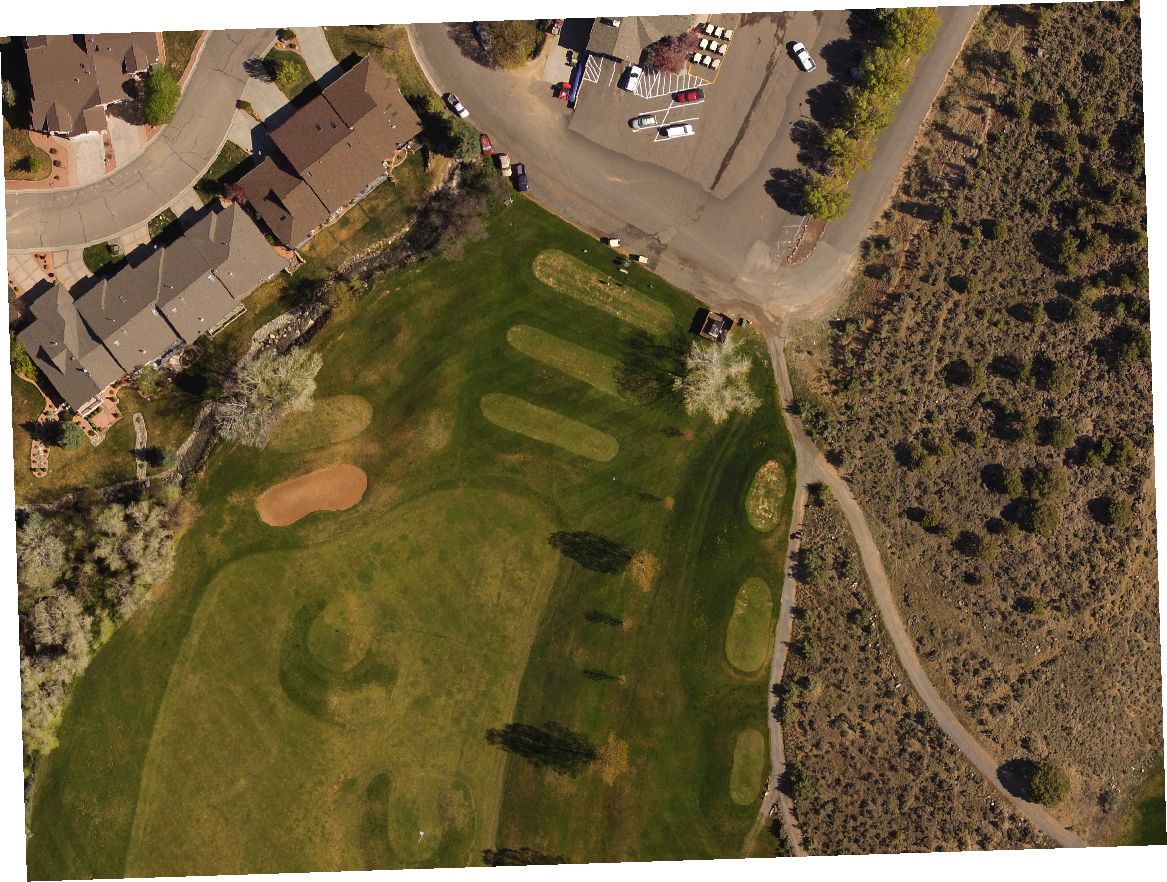
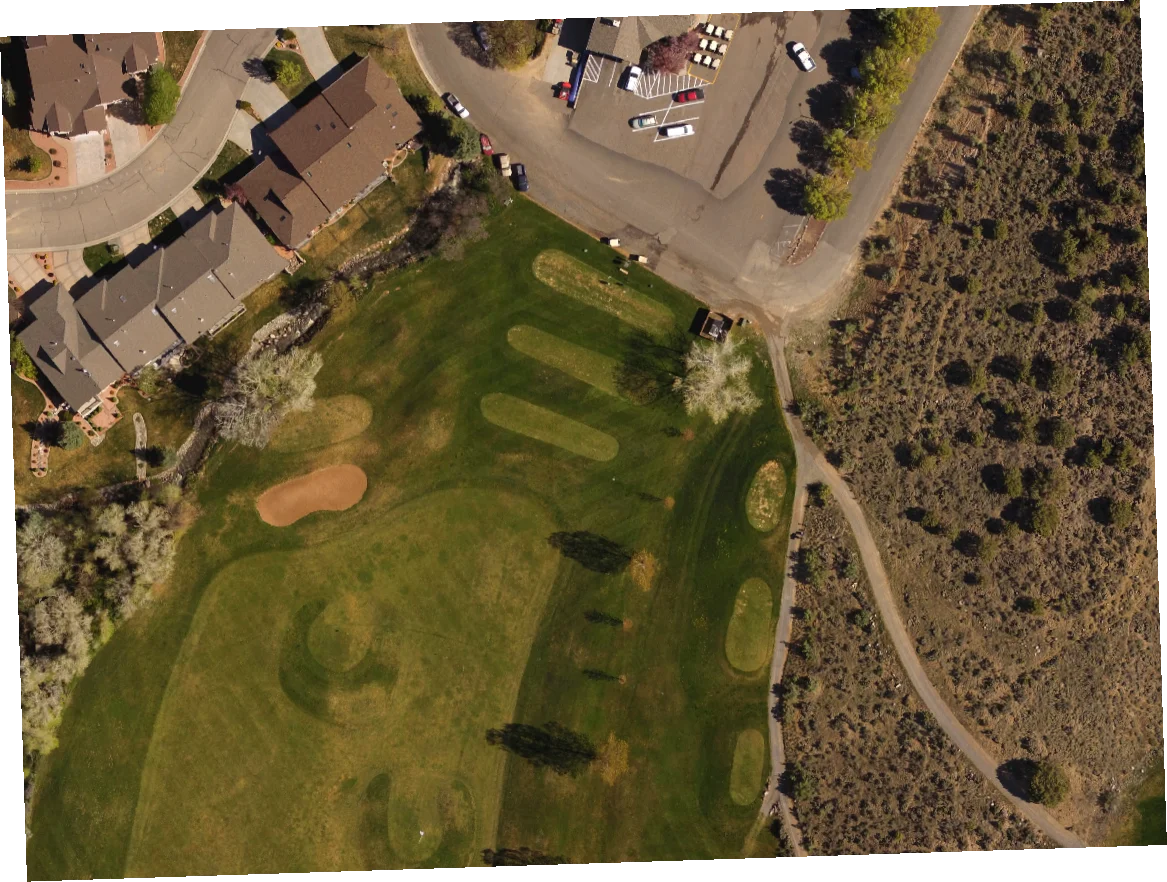
add webp files with bilinear interpolation at 85 quality

diff --git a/index.html b/index.html
@@ -137,10 +137,10 @@ body { margin: 0; padding: 0; }
                         'type': 'image',
                         'url': 'https://raw.githubusercontent.com/AndreiKushkin/map_img/main/'+name,
                         'coordinates': [
-                        [150.8452, -33.6625],
-                        [150.8519, -33.6625],
-                        [150.8519, -33.6675],
-                        [150.8452, -33.6675]
+                        [150.8453232, -33.6624641],
+                        [150.85188302, -33.66257833],
+                        [150.8517603, -33.66751297],
+                        [150.84520012, -33.66739873]
                         ]
                     });
                     map.addLayer({
@@ -148,7 +148,8 @@ body { margin: 0; padding: 0; }
                         'type': 'raster',
                         'source': source,
                         'paint': {
-                            'raster-fade-duration': 0
+                            'raster-fade-duration': 0,
+                            'raster-opacity': 0.7
                         }
                     });
                     this.className = 'active';

diff --git a/golf_sample.html b/golf_sample.html
@@ -31,10 +31,10 @@ body { margin: 0; padding: 0; }
             'type': 'image',
             'url': 'https://raw.githubusercontent.com/AndreiKushkin/map_img/main/golf_sample.webp',
             'coordinates': [
-                (38.88097584713329, -107.92850624497154),
-                (38.88103701893265, -107.92606803822123),
-                (38.87963021350555, -107.92601029303643),
-                (38.879569044760224, -107.92844845183701)
+                [-107.92850624, 38.88097585],
+                [-107.92606804, 38.88103702],
+                [-107.92601029, 38.87963021],
+                [-107.92844845, 38.87956904]
             ]
         });
         map.addLayer({
@@ -42,7 +42,8 @@ body { margin: 0; padding: 0; }
             'type': 'raster',
             'source': 'img',
             'paint': {
-                'raster-fade-duration': 0
+                'raster-fade-duration': 0,
+                'raster-opacity': 0.7
             }
         });
     });
